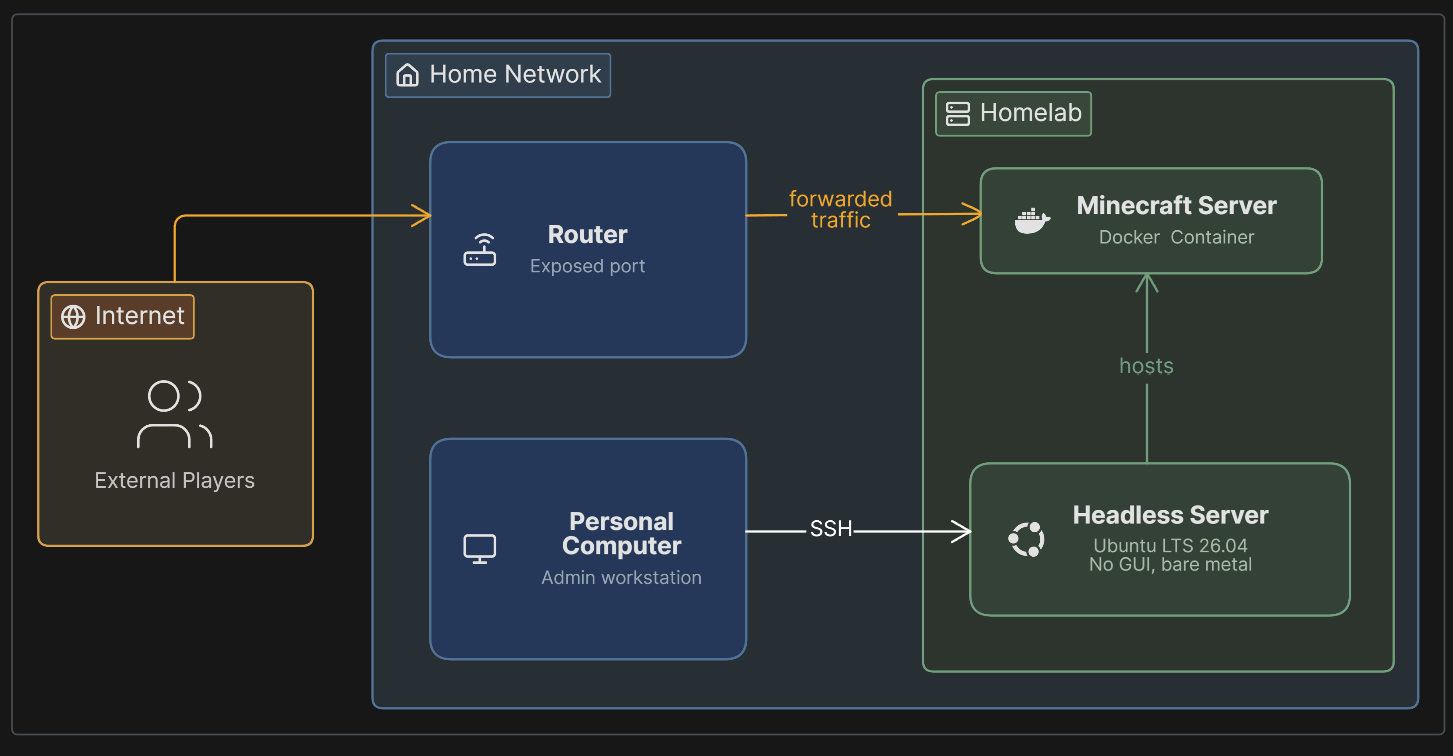
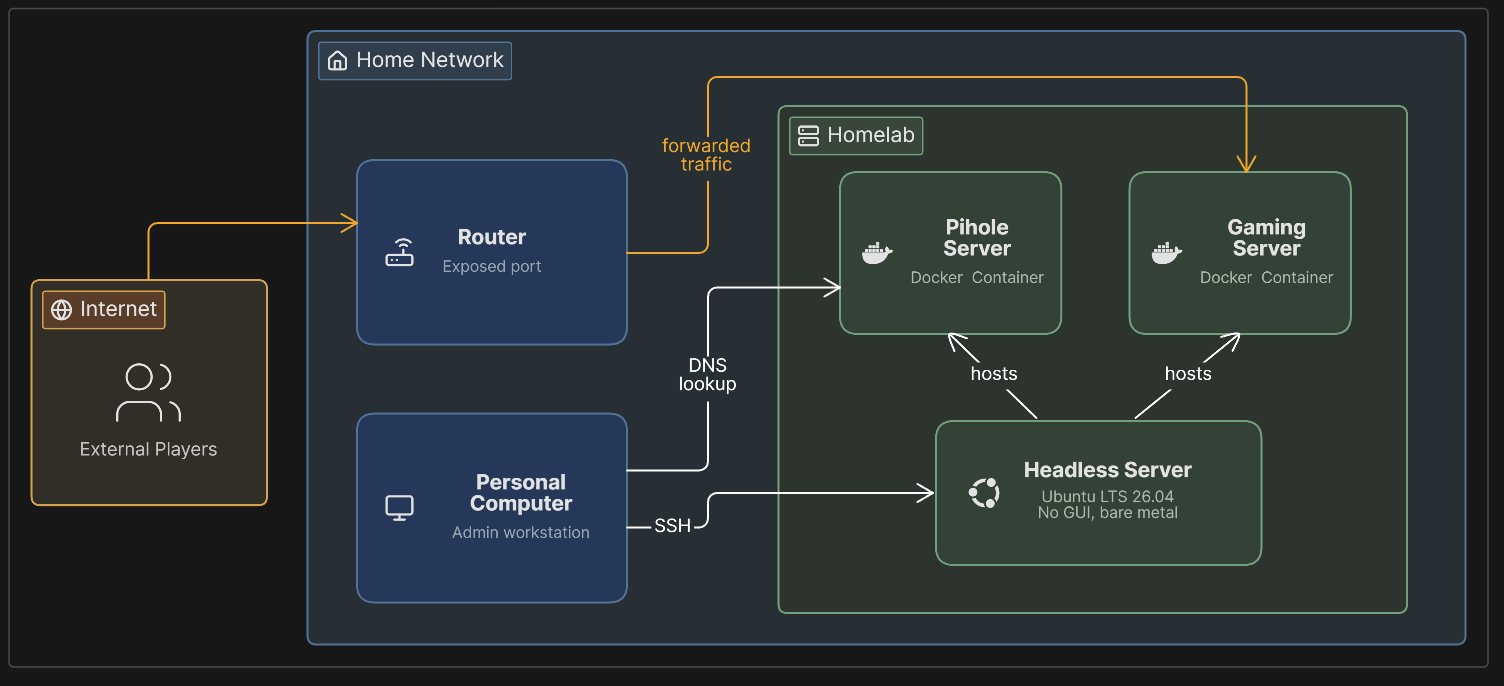
Updates homelab article with Pi-hole

diff --git a/docs/projects/homelab.md b/docs/projects/homelab.md
@@ -8,6 +8,7 @@ This diagram represents all the key components of the project and their interact
 
 * **Headless server**: A recycled laptop running Ubuntu with no GUI. Serves as the host for all gaming/media deployments, as well as firewall configurations and other security provisions.
 * **Gaming server**: A Docker Compose image which deploys a Minecraft server with a player whitelist and routine backups.
+* **Pi-hole server**: A separate Docker Compose image which deploys a network-wide ad-blocker, configured at a device level via DNS configuration.
 * **Personal computer**: My own personal desktop which connects to the server via SSH. This is the master workstation for all parts of this project, not the server itself.
 * **Router**: Home network router which procures a static IP + port for external traffic.
 * **External players**: Anyone outside of the home network will only be able to connect to the gaming server, and no other parts of the homelab.
@@ -16,17 +17,21 @@ This diagram represents all the key components of the project and their interact
 
 I started by wiping the device completely and installing an Ubuntu LTS 26.04 server. My plan was to leave the server running while the laptop remained shut and tucked away (as it already had been up to this point). It would make the perfect foundation for a collection of small, self-hosted services including media and gaming servers. This project became a practical exercise in Linux administration, home networking, and the kind of layered security thinking that's expected of anyone exposing a personal server to the public internet. I configured the machine to run headless, lid closed, where it could be remotely accessed through my desktop, and from there, I was free to start building, and my first project was a standard Minecraft server.
 
-## Standing Up the Minecraft Server
+## Standing Up the Gaming Server
 
 With a stable, always-on Linux host in place, I containerized a Minecraft server using Docker Compose. This made it trivial to persist world data across rebuilds, set resource limits appropriate for the hardware, and configure automatic restarts so the server recovers cleanly after a reboot or outage.
 
-## Exposing a Home Server Safely
+### Exposing a Home Server Safely
 
 In order to let friends outside my network access the server, I had to take proper precaution to ensure my network wasn't haphazardly being exposed to the outside world. I opted for direct port forwarding, paired with dynamic DNS so the server stays reachable even when the ISP changes the public IP.
 
 ### A Layered Security Approach
 
 Opening a port to the internet means accepting it will be found and probed automatically, so I treated security as overlapping layers rather than one control. At the router, the exposed port was deliberately different from the game's default. On the host, a firewall denied all incoming traffic by default, SSH access was switched entirely to key-based authentication, and an intrusion-prevention tool auto-blocked hosts showing repeated failed logins. At the application layer, only pre-approved accounts can join via whitelisting, and Minecraft's ownership verification blocks spoofed logins even from a valid-looking username. Automated, rolling daily backups guard against data loss from any failure in the other layers.
+
+## Ad-Blocking for Local Devices
+
+By deploying a Pi-hole container image through my homelab, I can configure DNS connectivity for individual devices in my network to block ads. Pi-hole is very lightweight, especially for only managing a couple specific devices in my network, and can run with the limited memory of my hardware.
 
 ## Key Takeaways
 
